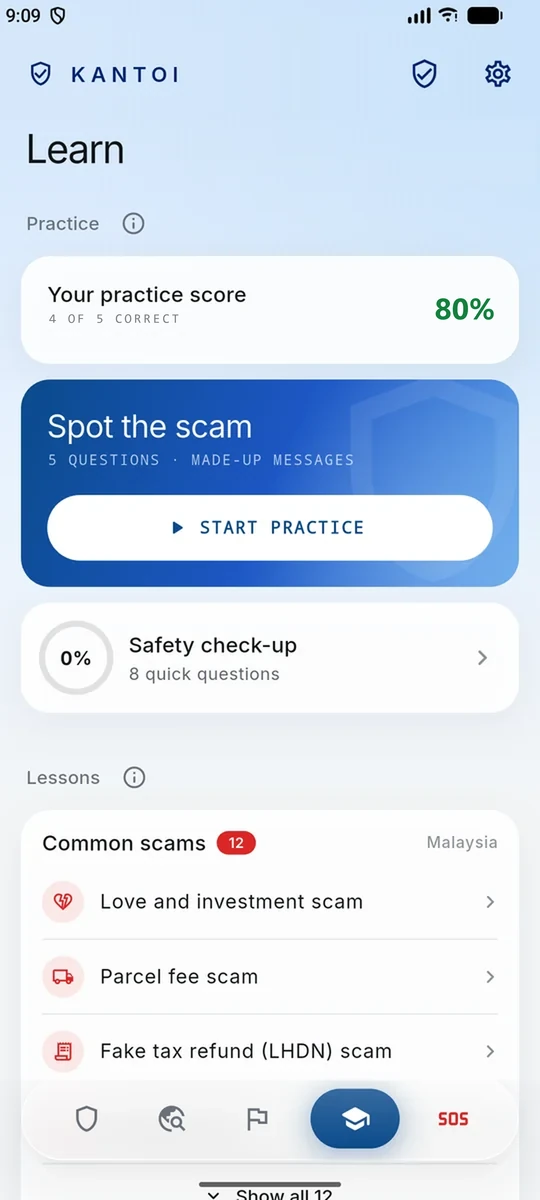
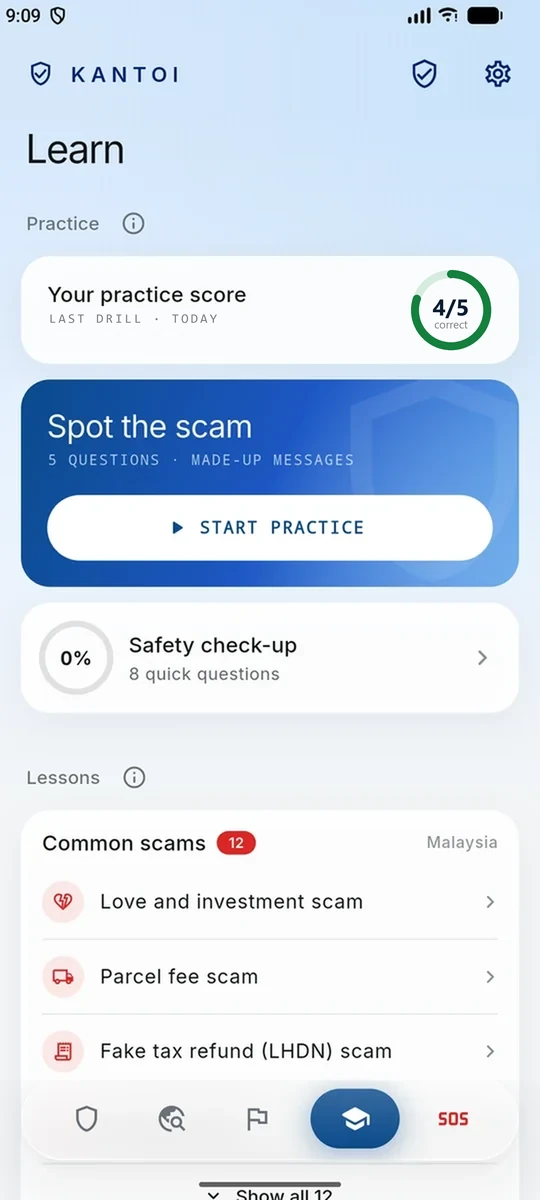
Show the Learn practice score as a 4/5 progress ring

diff --git a/index.html b/index.html
@@ -277,7 +277,7 @@
         <figcaption><b>Report</b><span>Pick what happened, send it in one tap.</span></figcaption>
       </figure>
       <figure class="shot">
-        <div class="shot-frame"><img src="screens/learn.webp?v=4" width="540" height="1200" decoding="async" alt="Kantoi Learn tab: practice score, a Spot the scam quiz, a Safety check-up and lessons on common Malaysian scams."></div>
+        <div class="shot-frame"><img src="screens/learn.webp?v=5" width="540" height="1200" decoding="async" alt="Kantoi Learn tab: practice score, a Spot the scam quiz, a Safety check-up and lessons on common Malaysian scams."></div>
         <figcaption><b>Learn</b><span>Practise spotting the next one.</span></figcaption>
       </figure>
       <figure class="shot">
